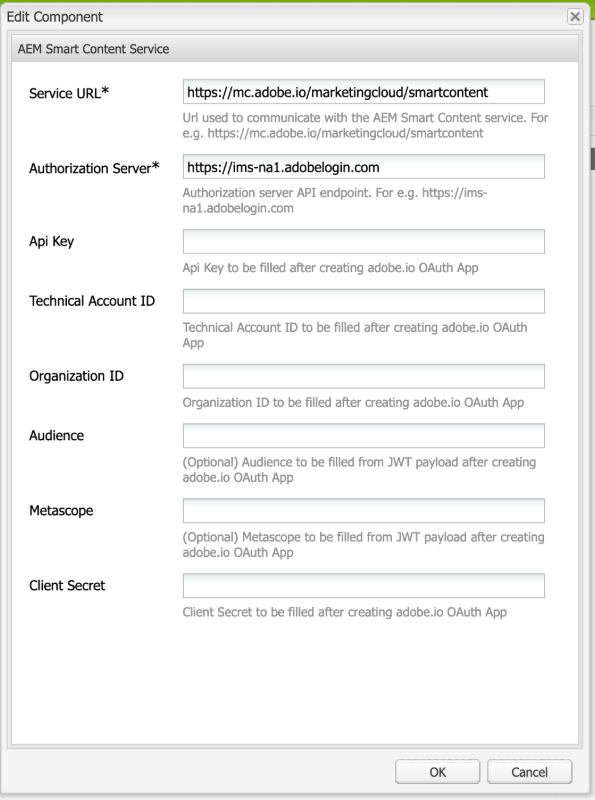
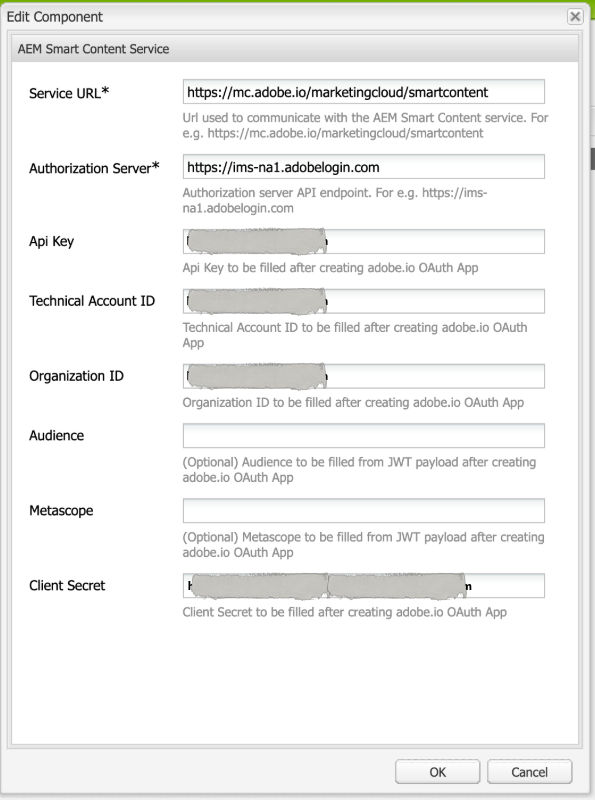
engg feedback

Changed region(s): [[0.3025, 0.2812, 0.5748, 0.4062], [0.3025, 0.7188, 0.7866, 0.75], [0.3025, 0.4375, 0.5445, 0.5]]

diff --git a/help/assets/config-oauth.md b/help/assets/config-oauth.md
@@ -33,12 +33,12 @@ An OAuth configuration requires the following prerequisites:
 
 * Create a new OAuth integration in the [Developer Console](https://developer.adobe.com/console/user/servicesandapis). Use the `ClientID`, `ClientSecret`, `OrgID`, and other properties in the steps below:
 * The following files can be found at this path `/apps/system/config in crx/de`:
-   * `com.**adobe**.granite.auth.oauth.accesstoken.provider.<randomnumbers>.config`
+   * `com.adobe.granite.auth.oauth.accesstoken.provider.<randomnumbers>.config`
    * `com.adobe.granite.auth.ims.impl.IMSAccessTokenRequestCustomizerImpl.<randomnumber>.config`
 
 ### OAuth configuration for the existing AMS and On prem users {#steps-config-oauth-onprem}
 
-The below steps can be performed by the system admin. AMS customer may reach out to the Adobe representative or submit a support ticket following the [support process](https://experienceleague.adobe.com/?lang=en&support-tab=home#support).
+The below steps can be performed by the system admin in **CRXDE**. AMS customer may reach out to the Adobe representative or submit a support ticket following the [support process](https://experienceleague.adobe.com/?lang=en&support-tab=home#support).
 
 1. Add or update the below properties in `com.adobe.granite.auth.oauth.accesstoken.provider.<randomnumbers>.config`:
 
@@ -50,6 +50,11 @@ The below steps can be performed by the system admin. AMS customer may reach out
    * Update the `auth.token.provider.client.id` with the Client ID of the new OAuth configuration.
    * Update `auth.access.token.request` to `"https://ims-na1.adobelogin.com/ims/token/v3"`
 1. Rename the file to `com.adobe.granite.auth.oauth.accesstoken.provider-<randomnumber>.config`.
+
+   >[!IMPORTANT]
+   >
+   >Replace dot (.) with hyphen (-) as a prefix to `<randomnumber>`.
+
 1. Perform the steps below in `com.adobe.granite.auth.ims.impl.IMSAccessTokenRequestCustomizerImpl.<randomnumber>.config`:
    * Update the property auth.ims.client.secret with the Client Secret from the new OAuth integration.
    * Rename the file to `com.adobe.granite.auth.ims.impl.IMSAccessTokenRequestCustomizerImpl-<randomnumber>.config`
@@ -58,7 +63,7 @@ The below steps can be performed by the system admin. AMS customer may reach out
 1. Navigate to `/system/console/configMgr` and replace the OSGi configuration from `.<randomnumber>` to `-<randomnumber>`.
 1. Delete the old OSGi configuration for `"Access Token provider name: adobe-ims-similaritysearch"` in `/system/console/configMgr`.
 -->
-1. In `System/console/configMgr`, delete the old configurations for `com.adobe.granite.auth.ims.impl.IMSAccessTokenRequestCustomizerImpl` and Access Token provider name `adobe-ims-similaritysearch`.
+1. In `System/console/configMgr`, the older and new configuration files gets create. Delete the older configurations for `com.adobe.granite.auth.ims.impl.IMSAccessTokenRequestCustomizerImpl` and Access Token provider name `adobe-ims-similaritysearch`. Ensure that the updated configuration only is in place, rather than the older configurations.
 1. Restart the console.
 
 ## Validate the configuration {#validate-the-configuration}
@@ -75,13 +80,19 @@ After you have completed the configuration, you can use a JMX MBean to validate 
 
 The validation results are displayed in the same dialog.
 
+>[!NOTE]
+>
+>If `unsupported_grant_type` error occurs, then try installing the Granite hotfix. Refer to [migration from Service Account (JWT) to OAuth Server-to-Server credentials](https://experienceleague.adobe.com/en/docs/experience-cloud-kcs/kbarticles/ka-24660).
+
 ## Integrate with Adobe Developer Console {#integrate-adobe-io}
 
 As a new user, when you integrate with Adobe Developer Console, the [!DNL Experience Manager] server authenticates your service credentials with the Adobe Developer Console gateway before forwarding your request to the Smart Content Service. To integrate, you need an Adobe ID account that has administrator privileges for the organization and a Smart Content Service license purchased and enabled for your organization.
 
 To configure the Smart Content Service, follow these top-level steps:
 
-1. To generate a public key, [create a Smart Content Service](#obtain-public-certificate) configuration in [!DNL Experience Manager]. [Download a public certificate](#obtain-public-certificate) for OAuth integration.
+![Experience Manager Smart Content Service dialog to provide content service URL](assets/config-oauth.png)
+
+1. To generate a public key, [create a Smart Content Service](#oauth-config) configuration in [!DNL Experience Manager]. [Download a public certificate](#oauth-config) for OAuth integration.
 
 1. *[Not applicable if you are an existing user]* [create an integration in Adobe Developer Console](#create-adobe-i-o-integration).
 
